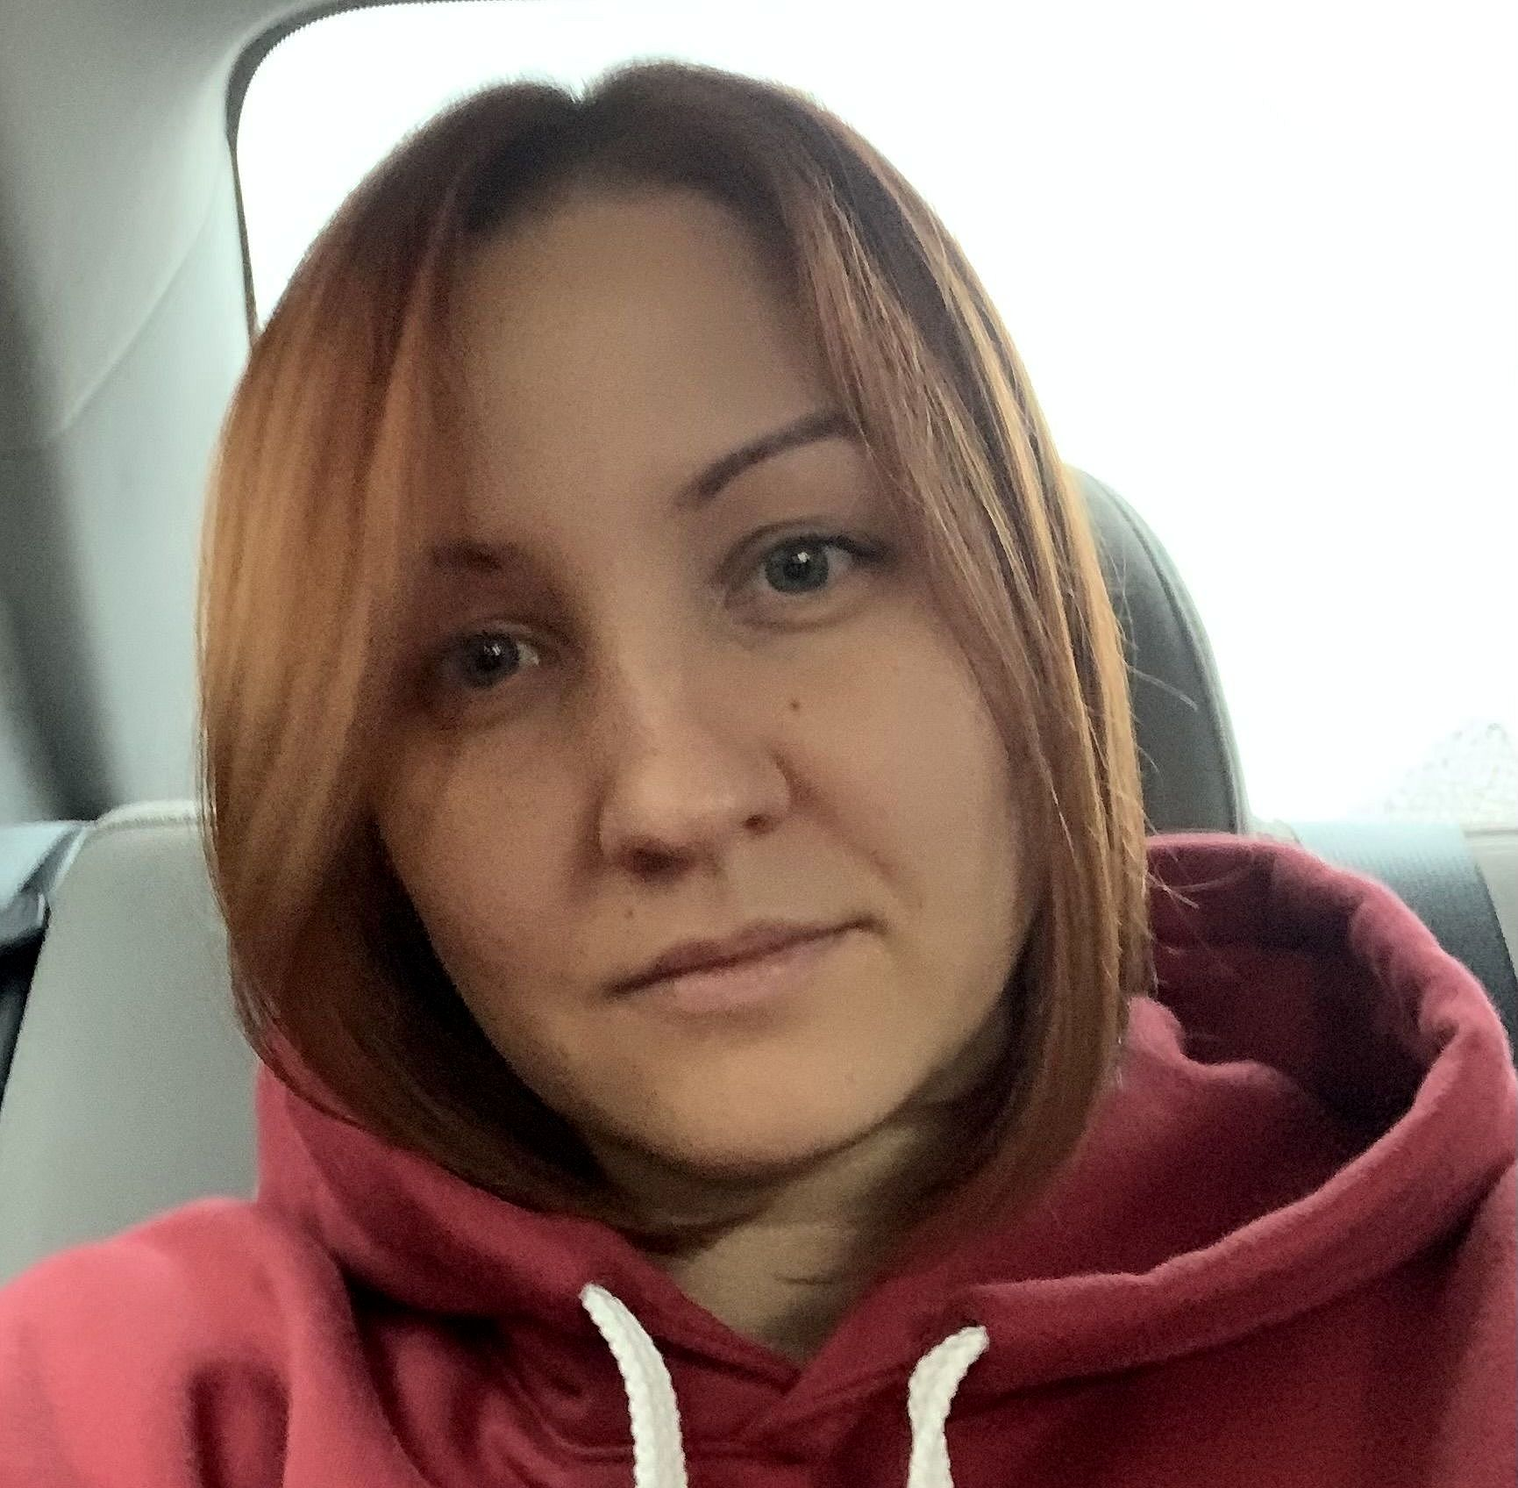
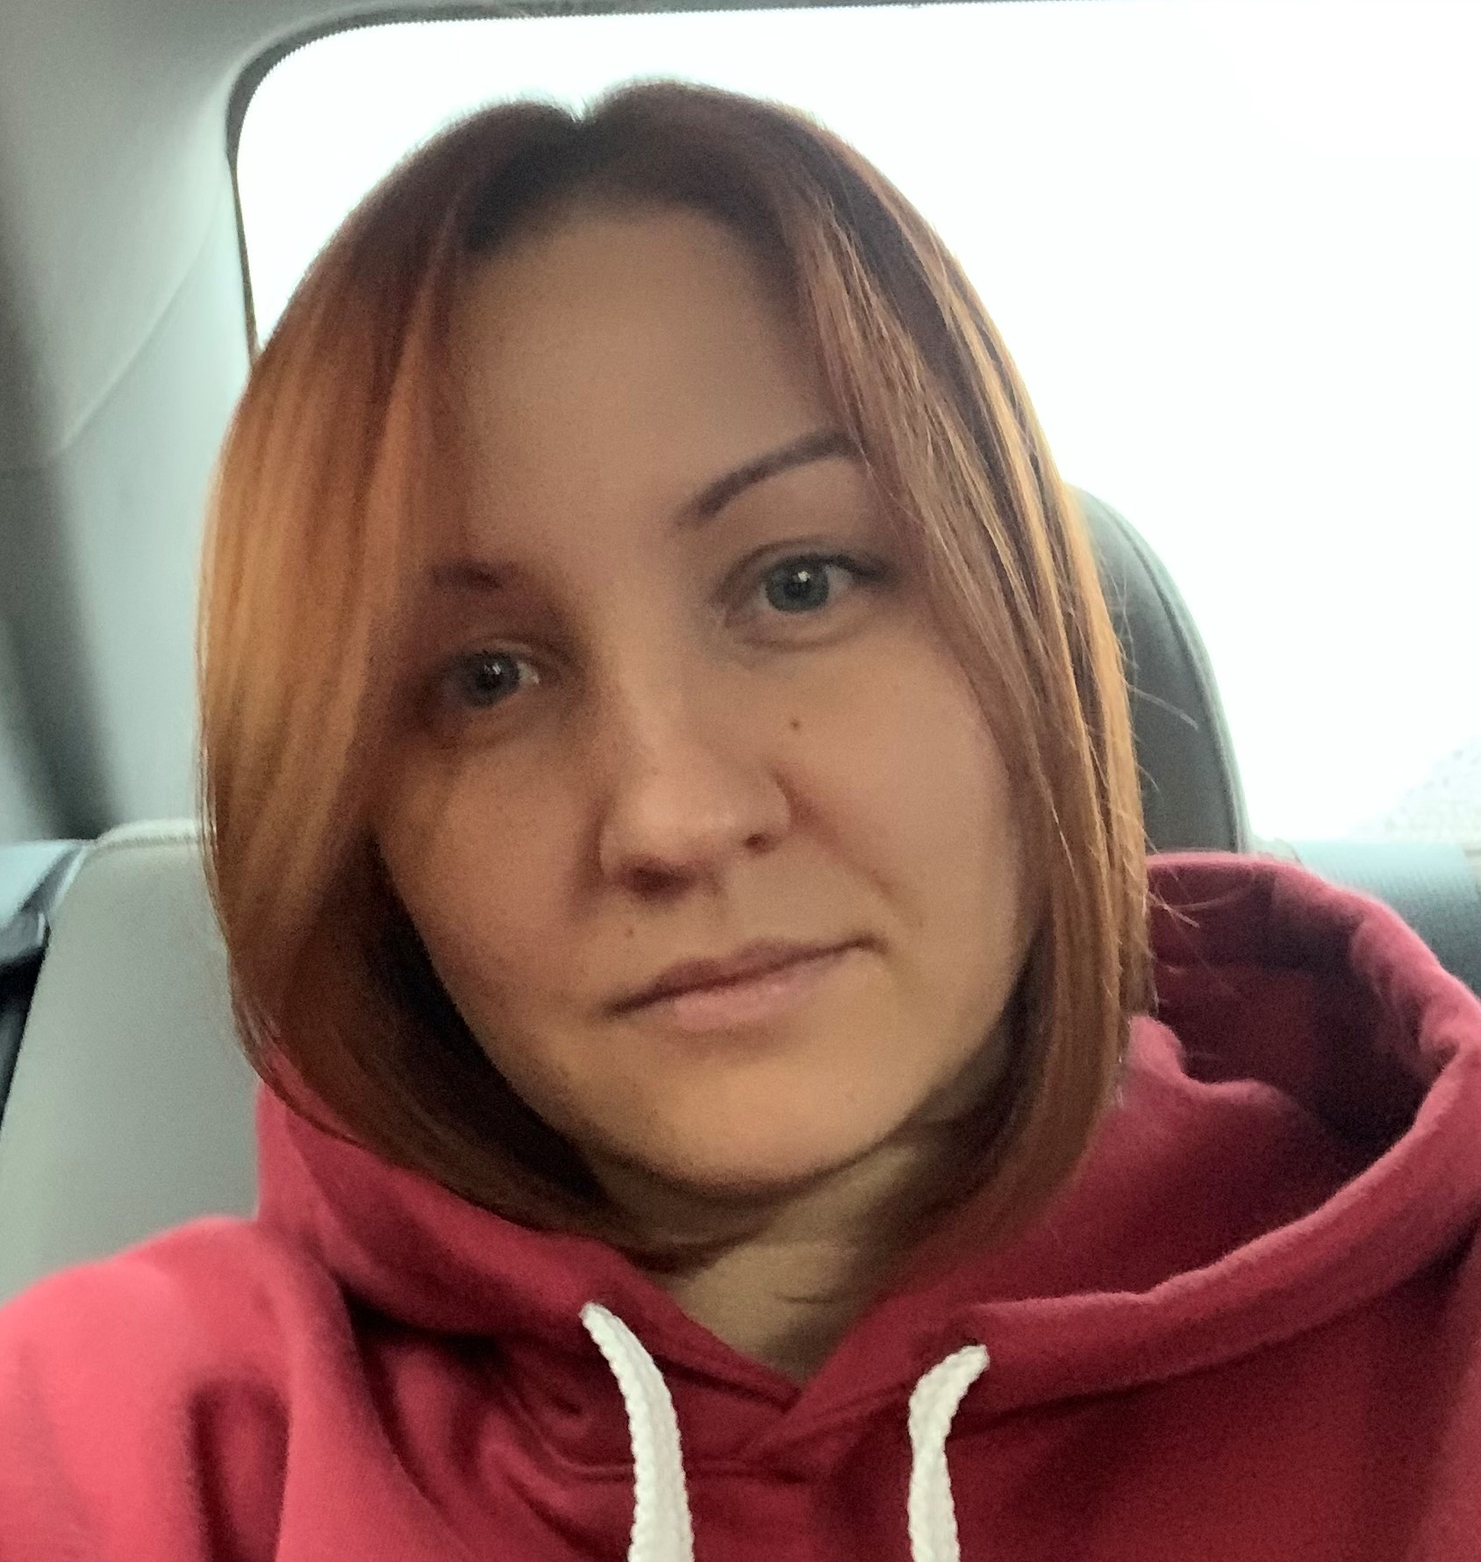
Updated experiences info

Changed region(s): [[0.0, 0.0, 1.0, 1.0]]

diff --git a/index.html b/index.html
@@ -1,8 +1,8 @@
 <!DOCTYPE html>
-<html>
+<html lang="en">
   <head>
-    <meta charset="UTF-8" />
-    <meta name="viewport" content="width=device-width, initial-scale=1" />
+    <meta charset="UTF-8">
+    <meta name="viewport" content="width=device-width, initial-scale=1">
     <link rel="stylesheet" href="styles.css">
     <title>Résumé</title>
   </head>
@@ -11,19 +11,11 @@
         <div class="resume">
           <div class="container">
             <div class="resume__block">
-              <h1 class="contact-info__header">Bulka</h1>
-              <h3 class="contact-info__sub-header">Senior Hooman Manager</h3>
+              <h1 class="contact-info__header">Tina Kovalova</h1>
+              <h3 class="contact-info__sub-header">Trainee Javascript Developer</h3>
       
               <div class="contact_info_container fh">
                 <div class="contact-info__block">
-                    <a href="" rel="author" class="contact-info__item">
-                        <div class="contact-info__item-icon-wrapper">
-                          <svg class="contact-info__item-icon" xmlns="http://www.w3.org/2000/svg" height="1em" viewBox="0 0 448 512">
-                            <path d="M152 24c0-13.3-10.7-24-24-24s-24 10.7-24 24V64H64C28.7 64 0 92.7 0 128v16 48V448c0 35.3 28.7 64 64 64H384c35.3 0 64-28.7 64-64V192 144 128c0-35.3-28.7-64-64-64H344V24c0-13.3-10.7-24-24-24s-24 10.7-24 24V64H152V24zM48 192H400V448c0 8.8-7.2 16-16 16H64c-8.8 0-16-7.2-16-16V192z"/>
-                        </svg>
-                        </div>
-                        <span>I'm older than you</span>
-                    </a>
                     <a href="" rel="author" class="contact-info__item">
                         <div class="contact-info__item-icon-wrapper">
                           <svg class="contact-info__item-icon" xmlns="http://www.w3.org/2000/svg" viewBox="0 0 384 512">
@@ -32,9 +24,9 @@
                             </path>
                           </svg>
                         </div>
-                        <span>Lviv, Ukraine</span>
+                        <span>Kyiv, Ukraine</span>
                     </a>
-                    <a href="https://ua.linkedin.com/company/binary-studio_241166" rel="author" class="contact-info__item">
+                    <a href="https://www.linkedin.com/in/tina-kovalova-9a07a7241/" rel="author" class="contact-info__item">
                         <div class="contact-info__item-icon-wrapper">
                           <svg class="contact-info__item-icon" xmlns="http://www.w3.org/2000/svg" viewBox="0 0 448 512">
                             <path
@@ -42,40 +34,56 @@
                             </path>
                           </svg>
                         </div>
-                        <span>binary-studio</span>
-                      </a>
+                        <span>tina-kovalova</span>
+                    </a>
+                    <a href="https://github.com/TinaKovalova" rel="author" class="contact-info__item">
+                        <div class="contact-info__item-icon-wrapper">
+                          <svg class="contact-info__item-icon" xmlns="http://www.w3.org/2000/svg" viewBox="0 0 550 512">
+                            <path 
+                              d="M165.9 397.4c0 2-2.3 3.6-5.2 3.6-3.3.3-5.6-1.3-5.6-3.6 0-2 2.3-3.6 5.2-3.6 3-.3 5.6 1.3 5.6 3.6zm-31.1-4.5c-.7 2 1.3 4.3 4.3 4.9 2.6 1 5.6 0 6.2-2s-1.3-4.3-4.3-5.2c-2.6-.7-5.5.3-6.2 2.3zm44.2-1.7c-2.9.7-4.9 2.6-4.6 4.9.3 2 2.9 3.3 5.9 2.6 2.9-.7 4.9-2.6 4.6-4.6-.3-1.9-3-3.2-5.9-2.9zM244.8 8C106.1 8 0 113.3 0 252c0 110.9 69.8 205.8 169.5 239.2 12.8 2.3 17.3-5.6 17.3-12.1 0-6.2-.3-40.4-.3-61.4 0 0-70 15-84.7-29.8 0 0-11.4-29.1-27.8-36.6 0 0-22.9-15.7 1.6-15.4 0 0 24.9 2 38.6 25.8 21.9 38.6 58.6 27.5 72.9 20.9 2.3-16 8.8-27.1 16-33.7-55.9-6.2-112.3-14.3-112.3-110.5 0-27.5 7.6-41.3 23.6-58.9-2.6-6.5-11.1-33.3 2.6-67.9 20.9-6.5 69 27 69 27 20-5.6 41.5-8.5 62.8-8.5s42.8 2.9 62.8 8.5c0 0 48.1-33.6 69-27 13.7 34.7 5.2 61.4 2.6 67.9 16 17.7 25.8 31.5 25.8 58.9 0 96.5-58.9 104.2-114.8 110.5 9.2 7.9 17 22.9 17 46.4 0 33.7-.3 75.4-.3 83.6 0 6.5 4.6 14.4 17.3 12.1C428.2 457.8 496 362.9 496 252 496 113.3 383.5 8 244.8 8zM97.2 352.9c-1.3 1-1 3.3.7 5.2 1.6 1.6 3.9 2.3 5.2 1 1.3-1 1-3.3-.7-5.2-1.6-1.6-3.9-2.3-5.2-1zm-10.8-8.1c-.7 1.3.3 2.9 2.3 3.9 1.6 1 3.6.7 4.3-.7.7-1.3-.3-2.9-2.3-3.9-2-.6-3.6-.3-4.3.7zm32.4 35.6c-1.6 1.3-1 4.3 1.3 6.2 2.3 2.3 5.2 2.6 6.5 1 1.3-1.3.7-4.3-1.3-6.2-2.2-2.3-5.2-2.6-6.5-1zm-11.4-14.7c-1.6 1-1.6 3.6 0 5.9 1.6 2.3 4.3 3.3 5.6 2.3 1.6-1.3 1.6-3.9 0-6.2-1.4-2.3-4-3.3-5.6-2z">
+                            </path>
+                          </svg>
+                        </div>
+                        <span>TinaKovalova</span>
+                    </a>
+                    
                 </div>
               
                 <div class="contact-info__block contact-info__block--center">
-                  <img class="contact-info__avatar" src="assets/avatar.png" alt="Avatar">
+                  <img class="contact-info__avatar" src="assets/avatar.jpg" alt="Avatar">
                 </div>
       
                 <div class="contact-info__block">
-                    <a href="mailto:ask@binary-studio.com" rel="author" class="contact-info__item">
+                    <a href="mailto:kovalevatkv@gmail.com" rel="author" class="contact-info__item">
                         <div class="contact-info__item-icon-wrapper">
-                          
                           <svg class="contact-info__item-icon" xmlns="http://www.w3.org/2000/svg" height="1em" viewBox="0 0 512 512">
-                            <path d="M48 64C21.5 64 0 85.5 0 112c0 15.1 7.1 29.3 19.2 38.4L236.8 313.6c11.4 8.5 27 8.5 38.4 0L492.8 150.4c12.1-9.1 19.2-23.3 19.2-38.4c0-26.5-21.5-48-48-48H48zM0 176V384c0 35.3 28.7 64 64 64H448c35.3 0 64-28.7 64-64V176L294.4 339.2c-22.8 17.1-54 17.1-76.8 0L0 176z"/>
+                            <path 
+                             d="M48 64C21.5 64 0 85.5 0 112c0 15.1 7.1 29.3 19.2 38.4L236.8 313.6c11.4 8.5 27 8.5 38.4 0L492.8 150.4c12.1-9.1 19.2-23.3 19.2-38.4c0-26.5-21.5-48-48-48H48zM0 176V384c0 35.3 28.7 64 64 64H448c35.3 0 64-28.7 64-64V176L294.4 339.2c-22.8 17.1-54 17.1-76.8 0L0 176z">
+                            </path>
                           </svg>
                         </div>
-                        <span>ask@binary-studio.com</span>
+                        <span>kovalevatkv@gmail.com</span>
                     </a>
-                    <a href="tel:+380322316454" rel="author" class="contact-info__item">
+                    <a href="tel:+380664036838" rel="author" class="contact-info__item">
                         <div class="contact-info__item-icon-wrapper">
-                        <svg class="contact-info__item-icon" xmlns="http://www.w3.org/2000/svg" height="1em" viewBox="0 0 384 512">
-                            <path d="M80 0C44.7 0 16 28.7 16 64V448c0 35.3 28.7 64 64 64H304c35.3 0 64-28.7 64-64V64c0-35.3-28.7-64-64-64H80zm80 432h64c8.8 0 16 7.2 16 16s-7.2 16-16 16H160c-8.8 0-16-7.2-16-16s7.2-16 16-16z"/>
-                        </svg>
+                          <svg class="contact-info__item-icon" xmlns="http://www.w3.org/2000/svg" height="1em" viewBox="0 0 384 512">
+                            <path 
+                              d="M80 0C44.7 0 16 28.7 16 64V448c0 35.3 28.7 64 64 64H304c35.3 0 64-28.7 64-64V64c0-35.3-28.7-64-64-64H80zm80 432h64c8.8 0 16 7.2 16 16s-7.2 16-16 16H160c-8.8 0-16-7.2-16-16s7.2-16 16-16z">
+                            </path>
+                         </svg>
                         </div>
-                        <span>+380322316454</span>
+                        <span>+380664036838</span>
                     </a>
-                    <a href="https://www.instagram.com/binarystudiocat" rel="author" class="contact-info__item">
+                    <a href="tg://resolve&domain=tina_kovalova" rel="author" class="contact-info__item">
                         <div class="contact-info__item-icon-wrapper">
-                          <svg class="contact-info__item-icon" xmlns="http://www.w3.org/2000/svg" height="1em" viewBox="0 0 448 512">
-                            <path d="M224.1 141c-63.6 0-114.9 51.3-114.9 114.9s51.3 114.9 114.9 114.9S339 319.5 339 255.9 287.7 141 224.1 141zm0 189.6c-41.1 0-74.7-33.5-74.7-74.7s33.5-74.7 74.7-74.7 74.7 33.5 74.7 74.7-33.6 74.7-74.7 74.7zm146.4-194.3c0 14.9-12 26.8-26.8 26.8-14.9 0-26.8-12-26.8-26.8s12-26.8 26.8-26.8 26.8 12 26.8 26.8zm76.1 27.2c-1.7-35.9-9.9-67.7-36.2-93.9-26.2-26.2-58-34.4-93.9-36.2-37-2.1-147.9-2.1-184.9 0-35.8 1.7-67.6 9.9-93.9 36.1s-34.4 58-36.2 93.9c-2.1 37-2.1 147.9 0 184.9 1.7 35.9 9.9 67.7 36.2 93.9s58 34.4 93.9 36.2c37 2.1 147.9 2.1 184.9 0 35.9-1.7 67.7-9.9 93.9-36.2 26.2-26.2 34.4-58 36.2-93.9 2.1-37 2.1-147.8 0-184.8zM398.8 388c-7.8 19.6-22.9 34.7-42.6 42.6-29.5 11.7-99.5 9-132.1 9s-102.7 2.6-132.1-9c-19.6-7.8-34.7-22.9-42.6-42.6-11.7-29.5-9-99.5-9-132.1s-2.6-102.7 9-132.1c7.8-19.6 22.9-34.7 42.6-42.6 29.5-11.7 99.5-9 132.1-9s102.7-2.6 132.1 9c19.6 7.8 34.7 22.9 42.6 42.6 11.7 29.5 9 99.5 9 132.1s2.7 102.7-9 132.1z"/>
+                          <svg class="contact-info__item-icon" xmlns="http://www.w3.org/2000/svg" height="1em" viewBox="0 0 550 512">
+                            <path 
+                              d="M248,8C111.033,8,0,119.033,0,256S111.033,504,248,504,496,392.967,496,256,384.967,8,248,8ZM362.952,176.66c-3.732,39.215-19.881,134.378-28.1,178.3-3.476,18.584-10.322,24.816-16.948,25.425-14.4,1.326-25.338-9.517-39.287-18.661-21.827-14.308-34.158-23.215-55.346-37.177-24.485-16.135-8.612-25,5.342-39.5,3.652-3.793,67.107-61.51,68.335-66.746.153-.655.3-3.1-1.154-4.384s-3.59-.849-5.135-.5q-3.283.746-104.608,69.142-14.845,10.194-26.894,9.934c-8.855-.191-25.888-5.006-38.551-9.123-15.531-5.048-27.875-7.717-26.8-16.291q.84-6.7,18.45-13.7,108.446-47.248,144.628-62.3c68.872-28.647,83.183-33.623,92.511-33.789,2.052-.034,6.639.474,9.61,2.885a10.452,10.452,0,0,1,3.53,6.716A43.765,43.765,0,0,1,362.952,176.66Z">
+                            </path>
                           </svg>
                         </div>
-                        <span>binary-studio-cat</span>
-                      </a>
+                        <span>Tina_Kovalova</span>
+                    </a>
                 </div>
               </div>
             </div>
@@ -90,10 +98,11 @@
                     </path>
                   </svg>
                 </div>
-                <p class="intro_text">Meow.
-                  I am a Binary Studio cat. Still got 7 lives. Work in IT, Full Stack Evil, 
-                  all I do is sleep and try to help out hoomans with their projects whenever 
-                  they need me.
+                <p class="intro_text">
+                  Responsible and highly motivated person. 
+                  Passionate about learning and development process.  
+                  I'd like to apply my knowledge for getting practical experience. 
+                  I'm seeking an opportunity to start a career as a Trainee JS developer in a company with a friendly team.
                 </p>
               </div>
             </div>
@@ -102,7 +111,7 @@
             <div class="resume__block">
               <div class="skills">
                 <h3 class="skills__header">Skills</h3>
-                <p class="skills__text">Sleep, eat, more sleep, meow, mrrr, purr. </p>
+                <p class="skills__text">JavaScript, HTML, CSS, SCSS, React, MySQL </p>
               </div>
             </div>
           </div>
@@ -111,21 +120,40 @@
               <div class="main-info fh">
           
                 <div class="experiences">
-                  <h3 class="experiences__header">Experience</h3>
+                  <h3 class="experiences__header">Experience (Projects)</h3>
                   <div class="experiences__company">
-                    <div class="experiences__company-header">
-                      <span class="experiences__company-header-durability">For whole my life</span>
-                      <h3 class="experiences__company-header-name">BinaryStudio</h3>
-                    </div>
-
+                  
                     <div class="experiences__company-project">
-                      <span class="experiences__company-project-role">Binary Studio Cat</span>
-                      <h3 class="experiences__company-project-name">Hooman project</h3>
                       <ul class="experiences__company-project-responsibilities">
-                        <li>Supported hoomans</li>
-                        <li>Slept all the time</li>
-                        <li>Lied on the keyboard</li>
-                        <li>Watched my hoomans working</li>
+                        <li class="experiences__company-project_item">
+                          <div class="experiences__company-project_info">
+                            <span class="experiences__company-project_durability">Apr 2023</span>
+                            <h3 class="experiences__company-project_name">Organick</h3>
+                            <p class="experiences__company-project_description">SPA (Organick food shop) which uses CRUD functions.
+                              Stack: HTML,SCSS, React, Node.js, MySQL</p>
+                            <a href="https://github.com/TinaKovalova/organick"  class="experiences__company-project_link">https://github.com/TinaKovalova/organick</a>
+                          </div>
+                        </li>
+                        <li class="experiences__company-project_item">
+                          <div class="experiences__company-project_info">
+                            <span class="experiences__company-project_durability">Apr 2023</span>
+                            <h3 class="experiences__company-project_name">Alivio</h3>
+                            <p class="experiences__company-project_description">
+                              Simple website.<br>
+                              Stack: HTML5, CSS
+                            </p>
+                            <a href="https://github.com/TinaKovalova/sigma_alivio" class="experiences__company-project_link">https://github.com/TinaKovalova/sigma_alivio</a>
+                          </div>
+                        </li>
+                        <li class="experiences__company-project_item">
+                          <div class="experiences__company-project_info">
+                            <span class="experiences__company-project_durability">Aug 2022</span>
+                            <h3 class="experiences__company-project_name">Contact list</h3>
+                            <p class="experiences__company-project_description">SPA which uses CRUD functions to work with contacts.
+                              Stack: HTML5, CSS, React/Redux, MongoDB</p>
+                            <a href="https://github.com/TinaKovalova/cursor-hw20"  class="experiences__company-project_link">https://github.com/TinaKovalova/cursor-hw20</a>
+                          </div>
+                        </li>
                       </ul>
                     </div>
                   </div>
@@ -136,22 +164,37 @@
                     <div class="additional-info__education">
                       <h3 class="additional-info__education-header">Education</h3>
                       <div class="additional-info__education-university">
-                        <span class="additional-info__education-university-durability">2021</span>
-                        <h3 class="additional-info__education-university-speciality">Cat track</h3>
-                        <p class="additional-info__education-university-name">Binary Studio Academy</p>
+                        <span class="additional-info__education-university-durability">Nov 2022 - Apr 2023</span>
+                        <h3 class="additional-info__education-university-speciality">JavaScript Camp</h3>
+                        <p class="additional-info__education-university-name">Sigma Software University</p>
+                      </div>
+                      <div class="additional-info__education-university">
+                        <span class="additional-info__education-university-durability">May 2022 - Aug 2022 </span>
+                        <h3 class="additional-info__education-university-speciality">Front-end Advanced</h3>
+                        <p class="additional-info__education-university-name">CURSOR Education</p>
+                      </div>
+                      <div class="additional-info__education-university">
+                        <span class="additional-info__education-university-durability">Jun 2019 - Dec 2021</span>
+                        <h3 class="additional-info__education-university-speciality">Software Development</h3>
+                        <p class="additional-info__education-university-name">STEP IT Academy</p>
+                      </div>
+                      <div class="additional-info__education-university">
+                        <span class="additional-info__education-university-durability">2005 - 2010</span>
+                        <h3 class="additional-info__education-university-speciality">Bachelor of Finance </h3>
+                        <p class="additional-info__education-university-name">Donetsk National Technical University</p>
                       </div>
                     </div>
                   
                     <div class="additional-info__languages">
                       <h3 class="additional-info__languages-header">Languages</h3>
                       <p class="additional-info__languages-item">
-                        Meow dialect
+                        Ukrainian (Intermediate)
                       </p>
                       <p class="additional-info__languages-item">
-                        Ukrainian (understand)
+                        English (Intermediate)
                       </p>
                       <p class="additional-info__languages-item">
-                        English (don't understand)
+                        Russian (Native)
                       </p>
                     </div>
                   </div>

diff --git a/styles.css b/styles.css
@@ -1,4 +1,3 @@
-/*General styles*/
 * {
     margin: 0;
     padding: 0;
@@ -68,7 +67,7 @@ body {
         margin-right: 0;
     }
 }
-/*Contact info styles*/
+
 .contact-info__header,
 .contact-info__sub-header {
     text-align: center;
@@ -89,7 +88,7 @@ body {
 .contact-info__block {
     display: flex;
     flex-direction: column;
-    justify-content: space-between;
+    justify-content: space-around;
 }
 
 .contact-info__block--center {
@@ -125,13 +124,13 @@ body {
 
 .contact-info__avatar {
     border-radius: 50%;
-    width: 100px;
-    height: 100px;
+    width: 200px;
+    height: 200px;
     object-fit: cover;
     border: 3px solid;
     border-color: var(--text-decoration-color);
 }
-/*Intro and skills styles*/
+
 .intro {
     display: flex;
     justify-content: start;
@@ -168,7 +167,7 @@ body {
     color: var(--secondary-text-color);
     text-align: justify;
 }
-/*Experience and additional info styles*/
+
 .experiences {
     flex: 1 1 60%;
     margin-right: 50px;
@@ -200,22 +199,17 @@ body {
     margin-bottom: 25px;
 }
 
-.experiences__company-project-role {
-    color: var(--durability-text-color);
-    text-align: left;
-    margin-bottom: 10px;
-    font-size: 15px;
-}
-
-.experiences__company-project-name {
-    color: var(--primary-text-color);
-    text-align: left;
-    margin-bottom: 10px;
-}
-
 .experiences__company-project-responsibilities {
     color: var(--secondary-text-color);
     padding-left: 20px;
+}
+
+.experiences__company-project_info{
+    margin-top: 20px;
+    
+}
+.experiences__company-project_link{
+    color: var(--secondary-text-color);
 }
 
 .additional-info {
@@ -232,14 +226,16 @@ body {
     margin-bottom: 20px;
 }
 
-.additional-info__education-university-durability {
+.additional-info__education-university-durability, 
+.experiences__company-project_durability {
     color: var(--durability-text-color);
     text-align: left;
     margin-bottom: 10px;
     font-size: 15px;
 }
 
-.additional-info__education-university-speciality {
+.additional-info__education-university-speciality, 
+.experiences__company-project_name {
     color: var(--primary-text-color);
     text-align: left;
     margin-bottom: 10px;
